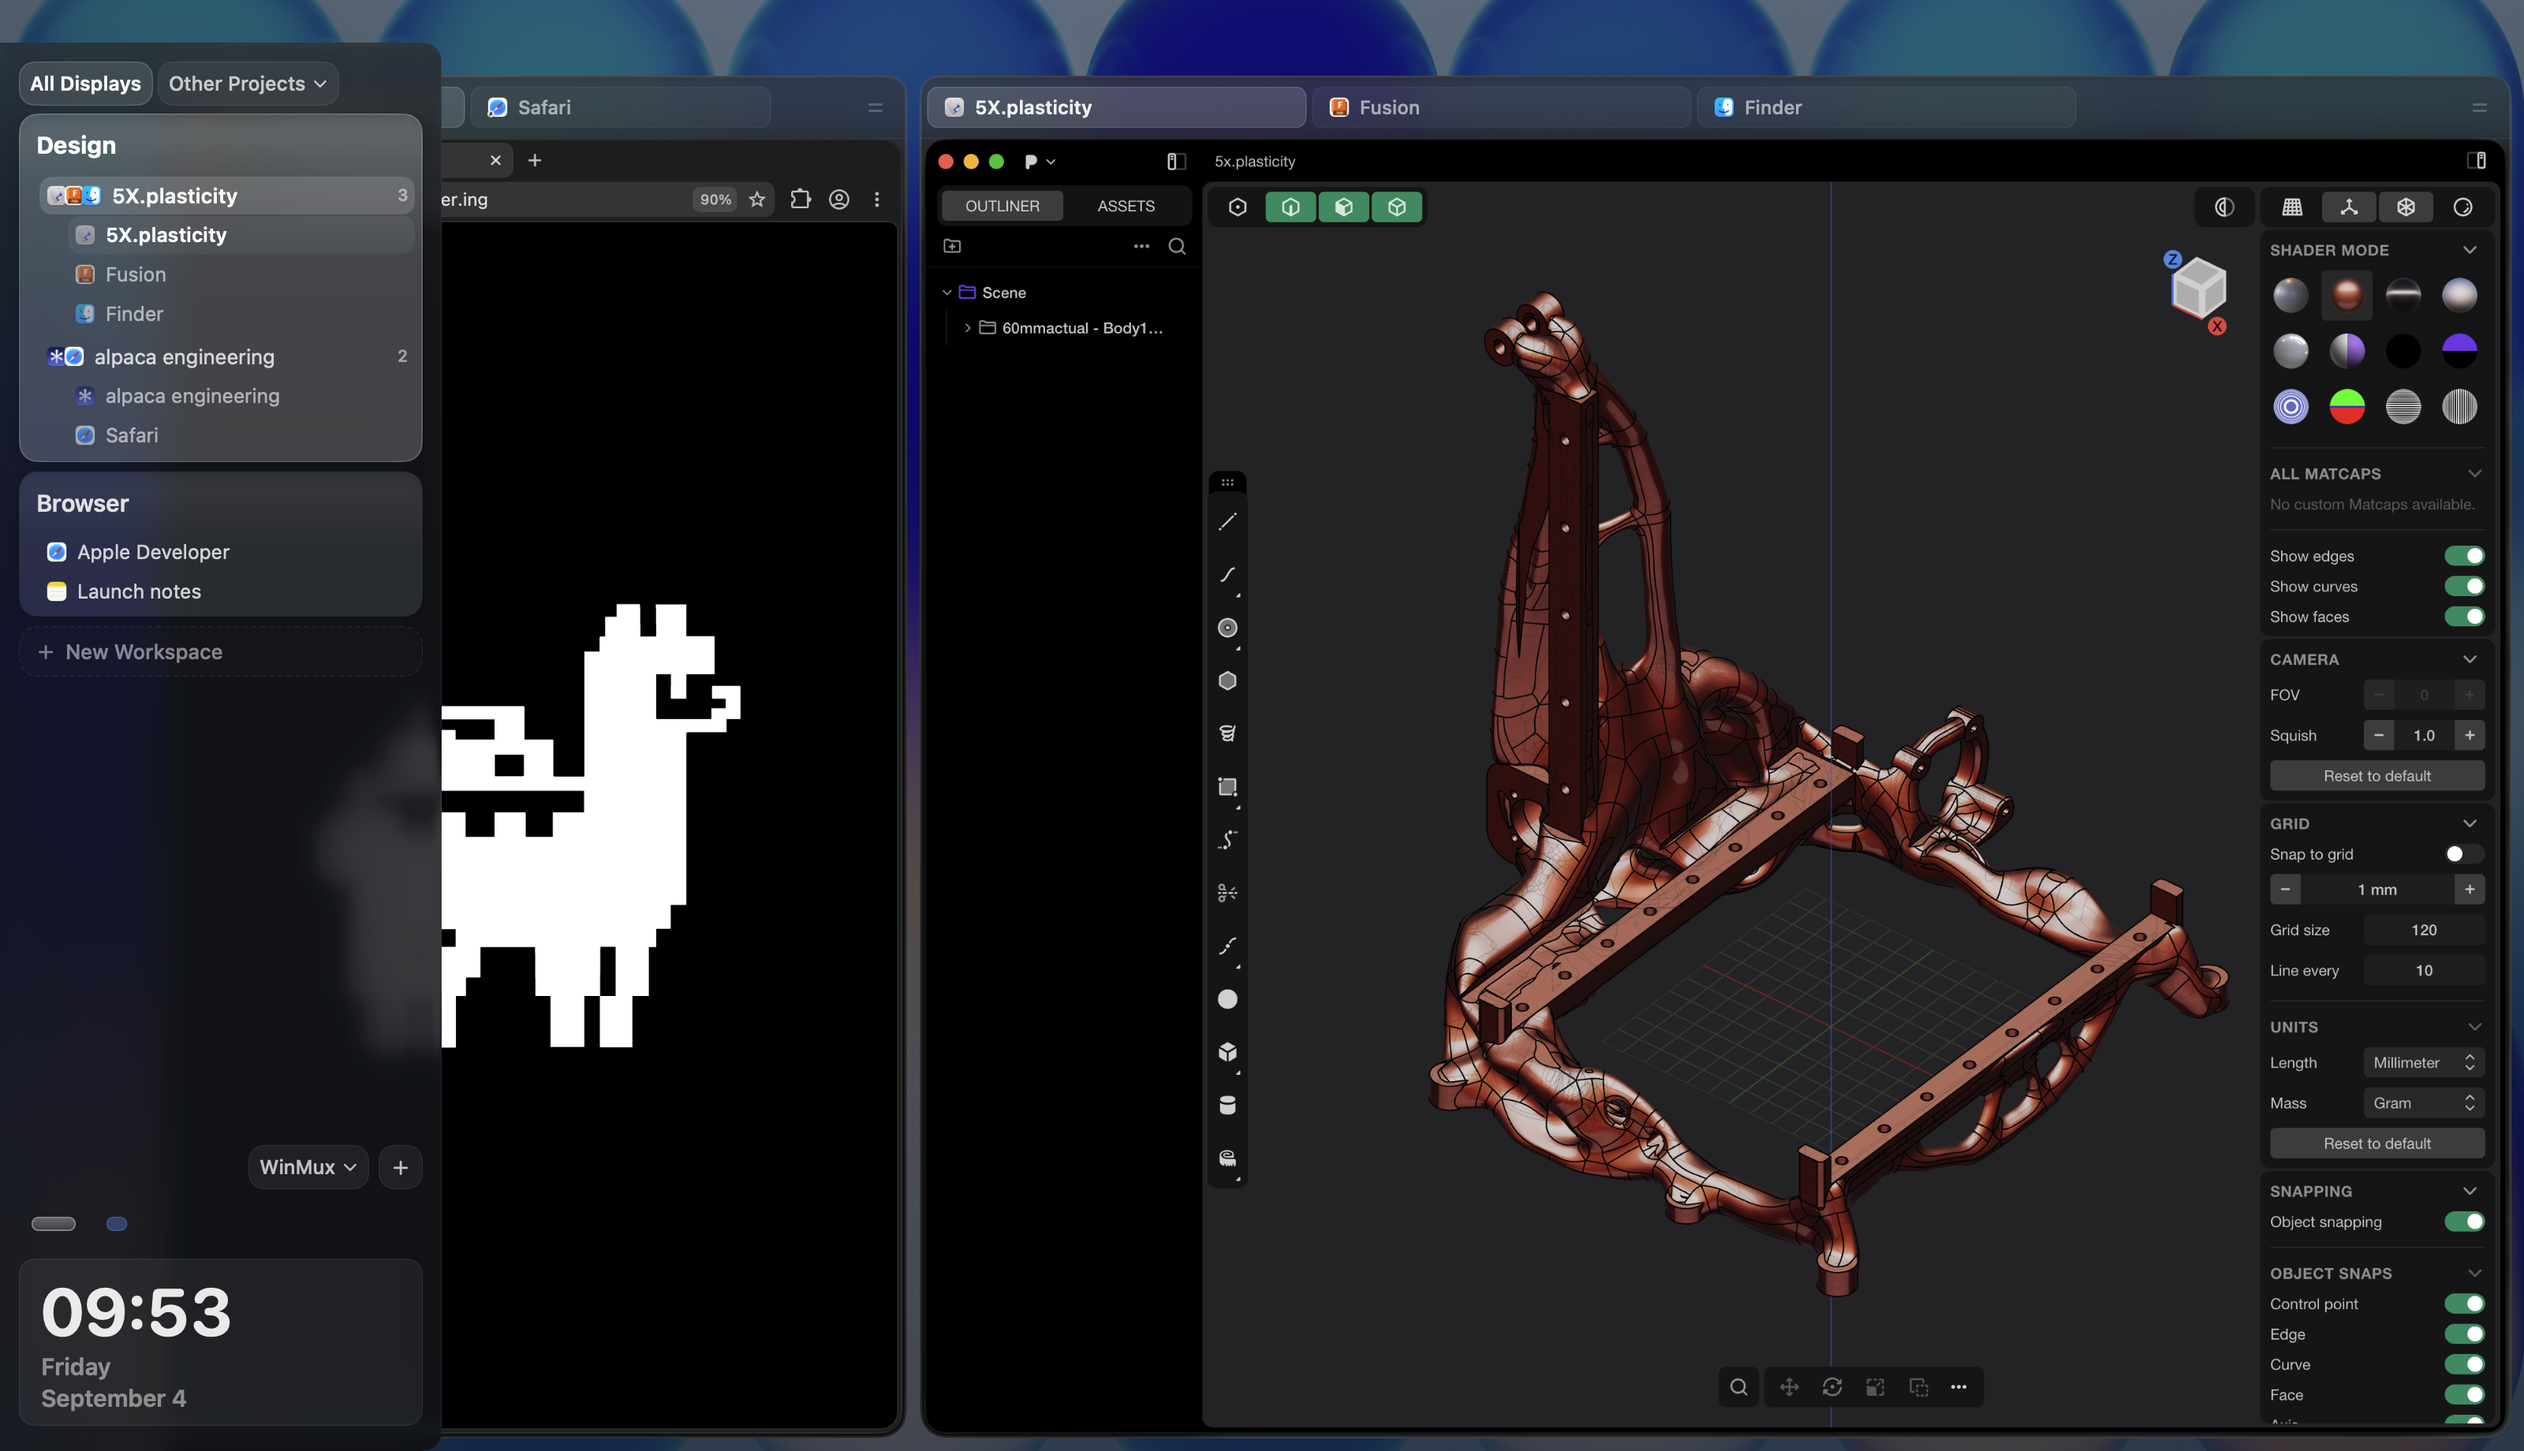
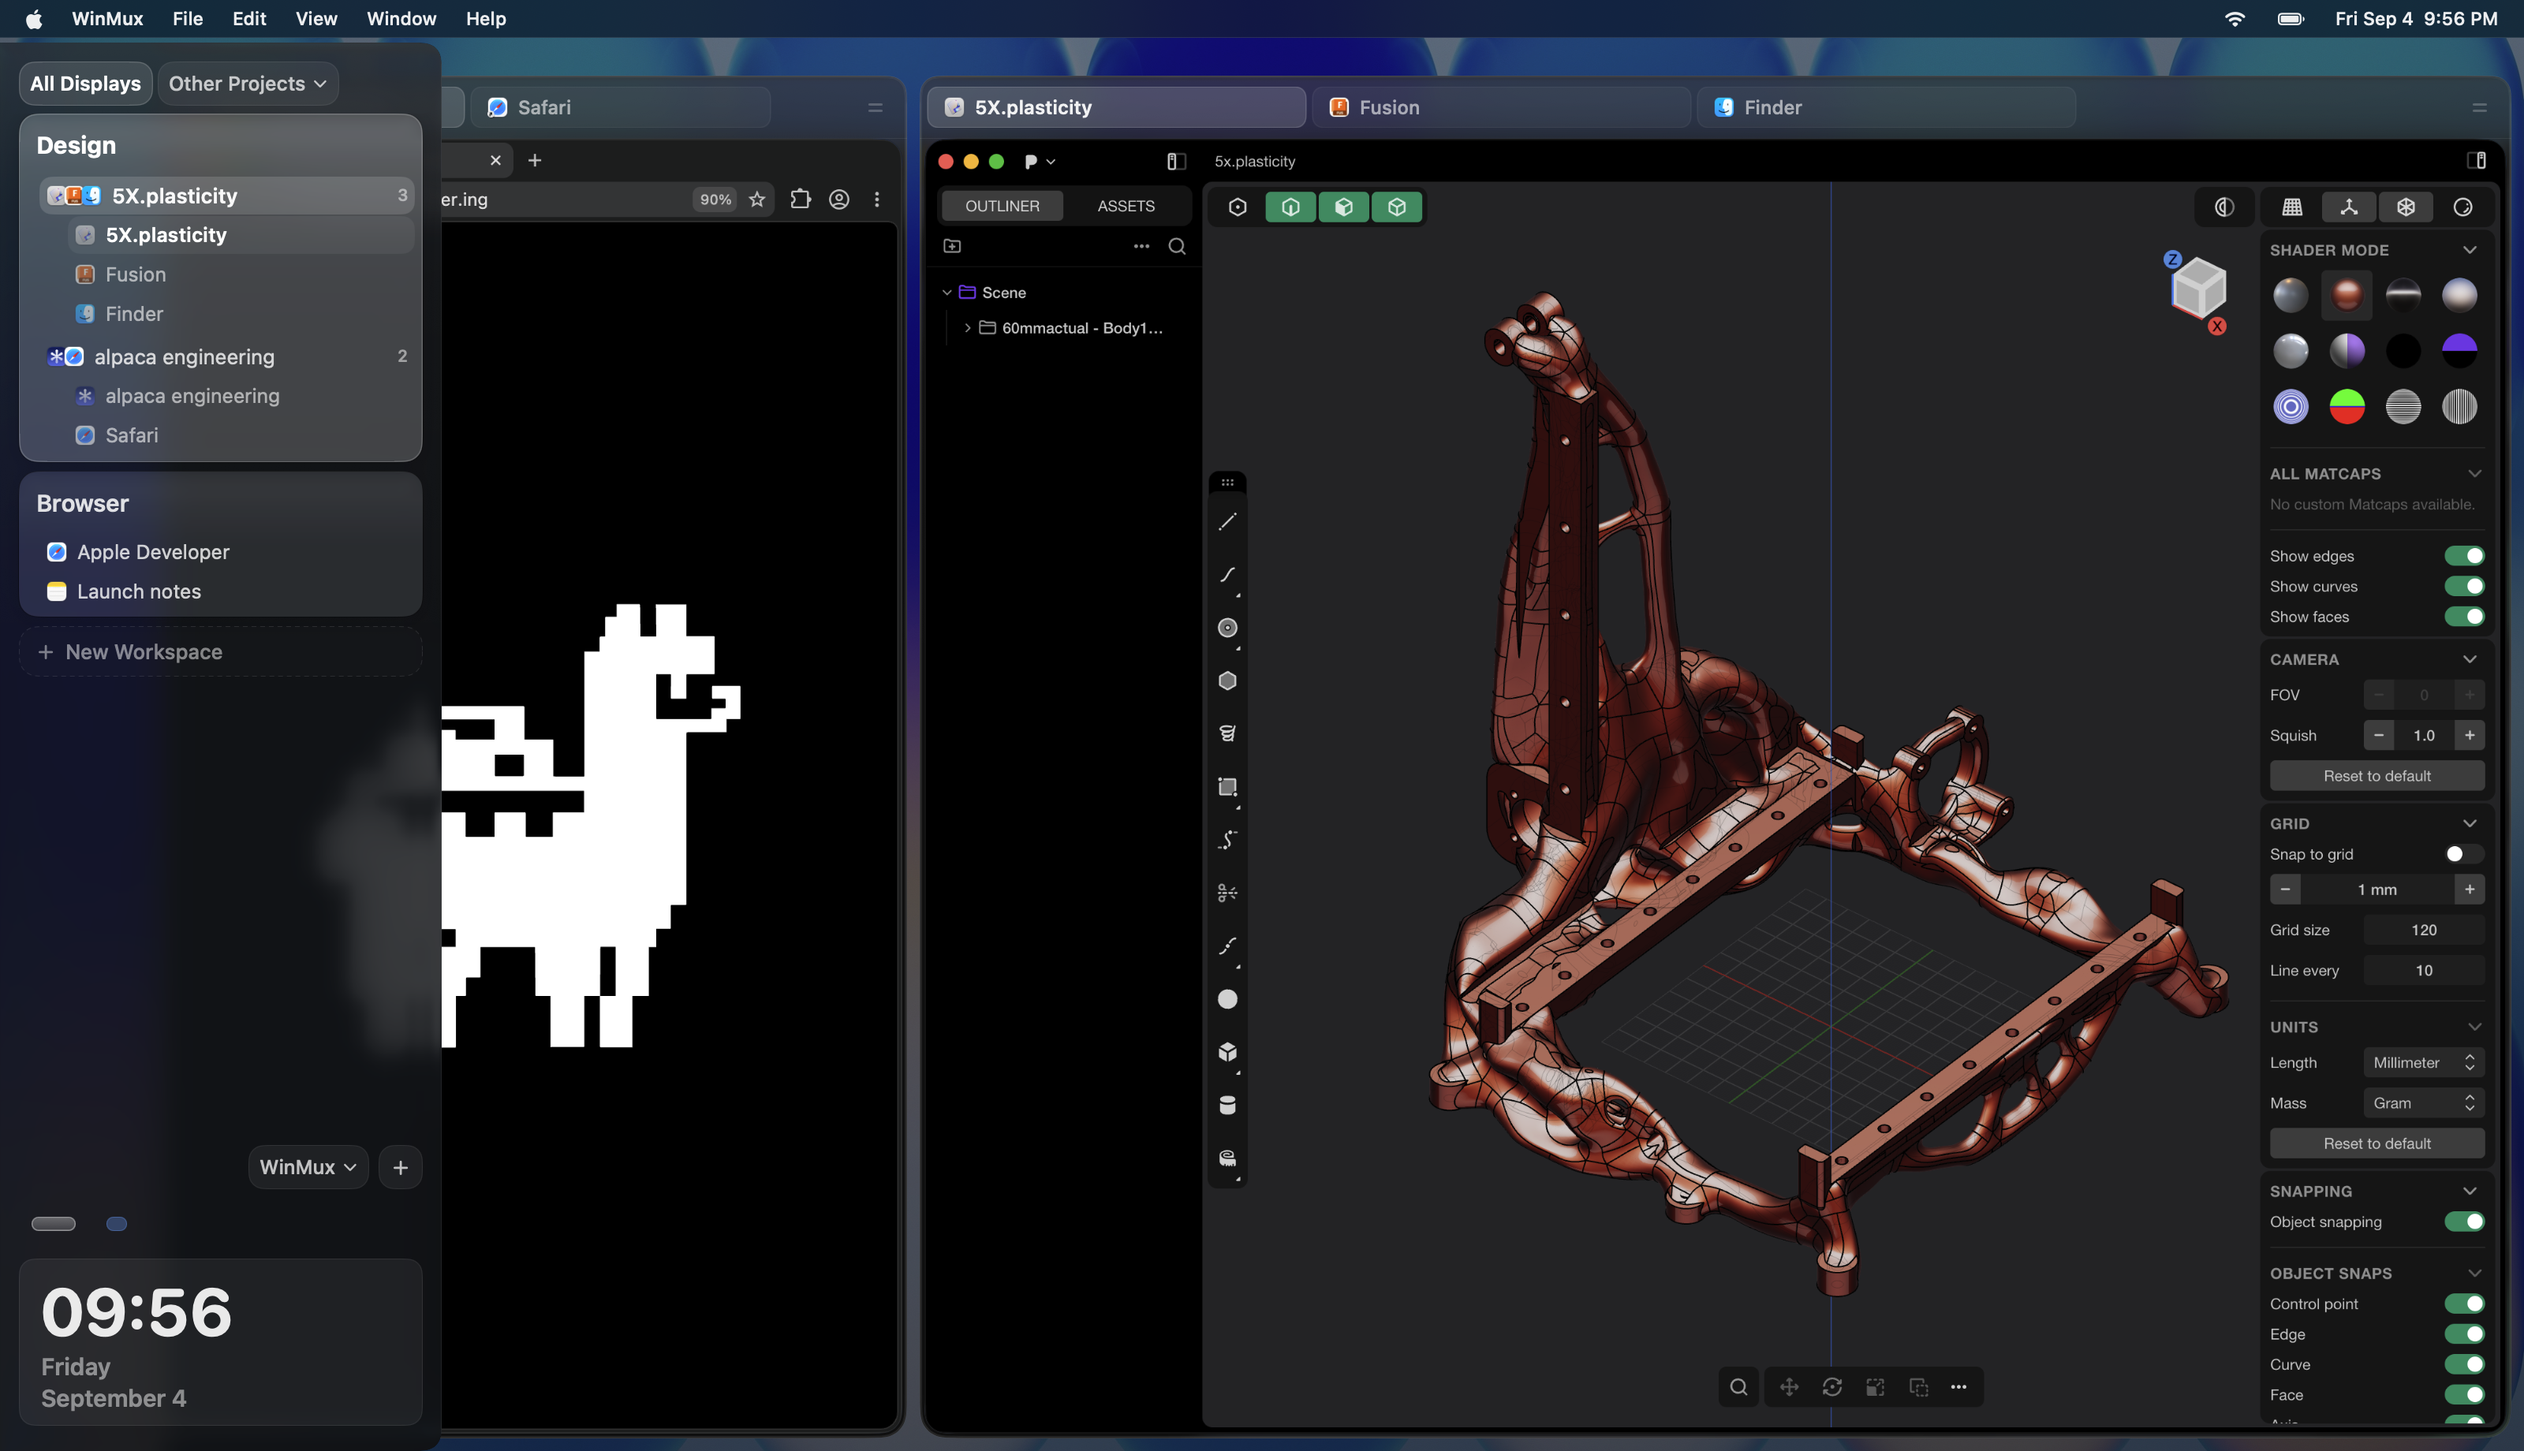
Show mock menu bar above marketing workspace

Changed region(s): [[0.0, 0.0, 1.0, 0.031], [0.0625, 0.8984, 0.0938, 0.9293]]

diff --git a/Sources/AppBundle/ui/marketing/WinMuxMarketingRenderer.swift b/Sources/AppBundle/ui/marketing/WinMuxMarketingRenderer.swift
@@ -266,6 +266,9 @@ private struct WinMuxSafariPlasticityProofCanvas: View {
                 .clipShape(sidebar.sidebarShape)
                 .offset(y: sidebarTopMargin)
         }
+        .overlay(alignment: .top) {
+            MarketingMenuBar()
+        }
         .clipped()
     }
 }
@@ -447,6 +450,7 @@ private struct MarketingMenuBar: View {
         .font(.system(size: 11.5, weight: .medium))
         .foregroundStyle(Color.white.opacity(0.92))
         .padding(.horizontal, 16)
+        .frame(height: 24)
         .background {
             ZStack {
                 Rectangle().fill(.ultraThinMaterial)
